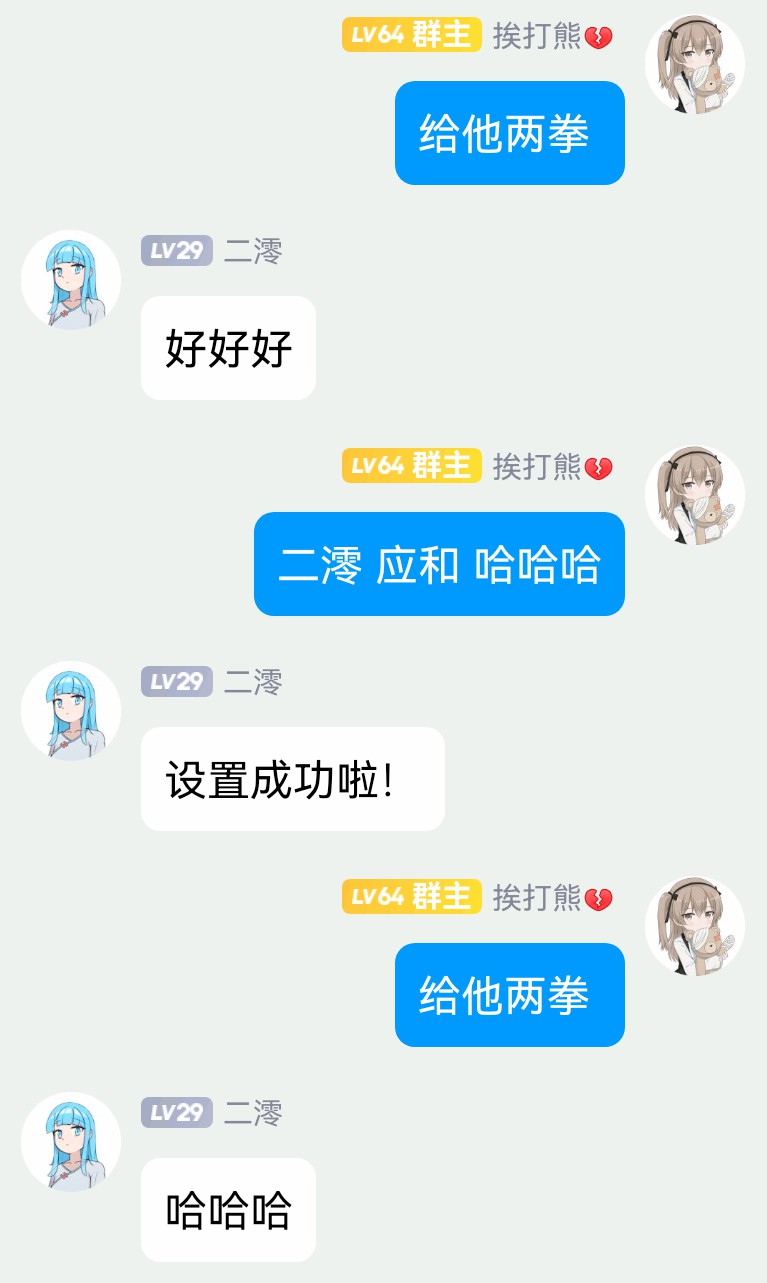
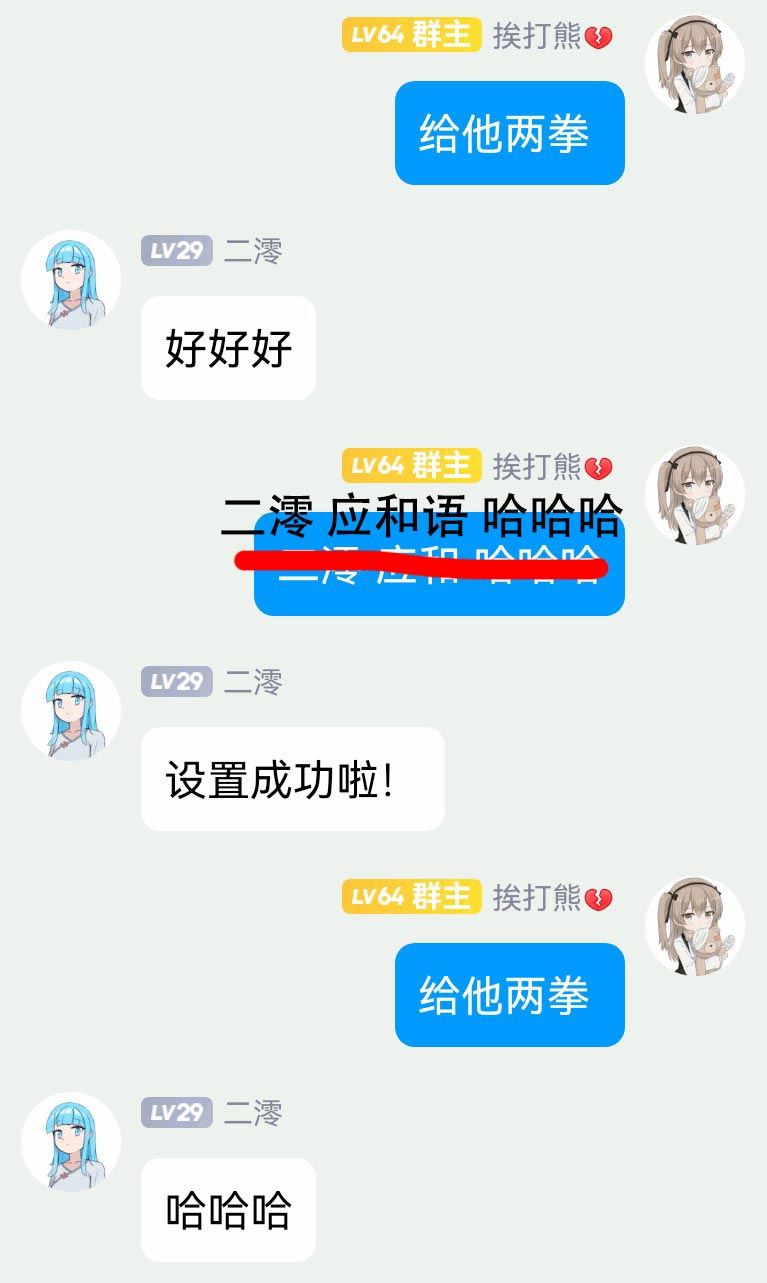
二澪应和语句设置内容

Changed region(s): [[0.2999, 0.3741, 0.8096, 0.4677]]

diff --git a/Erhelp/functionList/respond/index.html b/Erhelp/functionList/respond/index.html
@@ -13,11 +13,11 @@
         <h2>应和卡</h2>
         <p>使用格式：二澪 应和卡（需要购买应和卡）</p>
         <p>以下内容均需使用应和卡后才能实现。</p>
-        <h2>应和</h2>
+        <h2>应和语</h2>
         <p>发送以 “，二澪” 或 “,二澪” 结尾的消息，二澪会对其表示肯定。</p>
         <p>发送的消息后面接一个空格，二澪会回应用户自己设定的语句（默认是“好好好”）。</p>
         <h2>设置应和语句</h2>
-        <p>格式：二澪 应和 (语句)</p>
+        <p>格式：二澪 应和语 (语句)</p>
         <img src="./respond1.jpg" alt="respond1" class="example">
         <img src="./respond2.jpg" alt="respond2" class="example">
         <img src="./respond3.jpg" alt="respond3" class="example">
